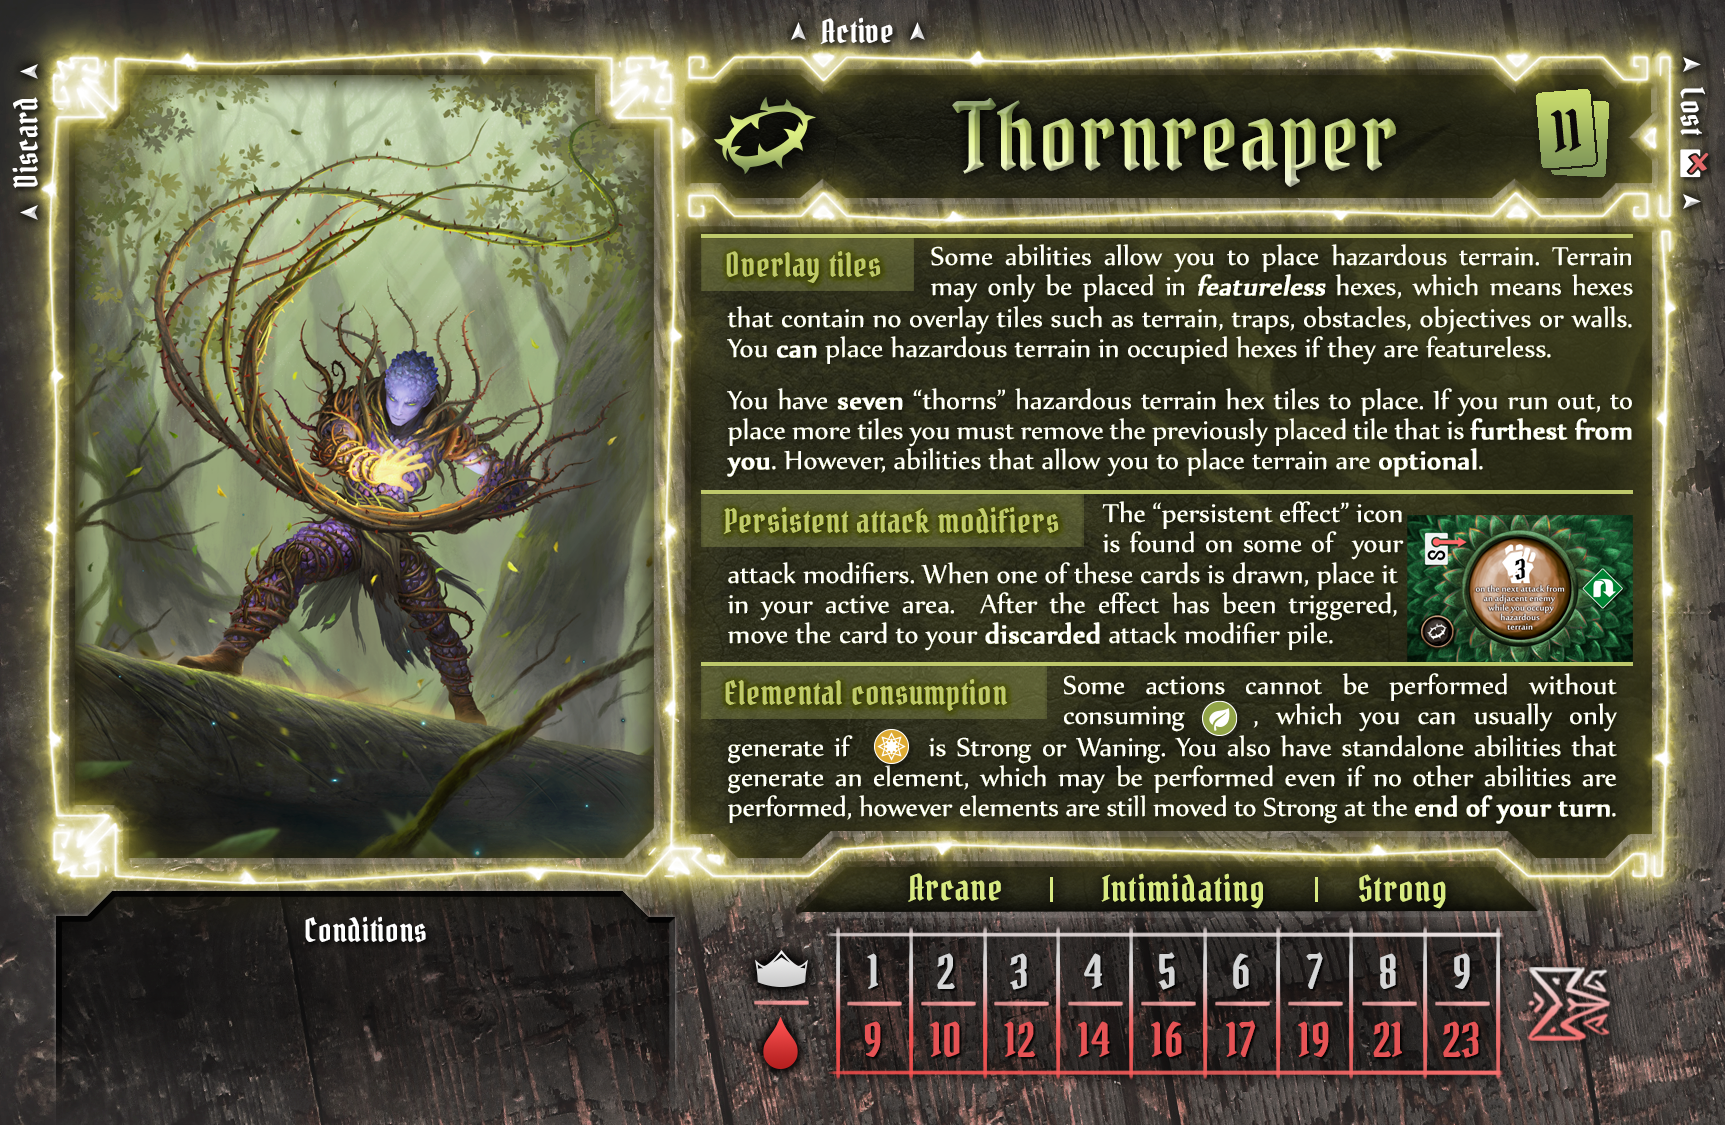
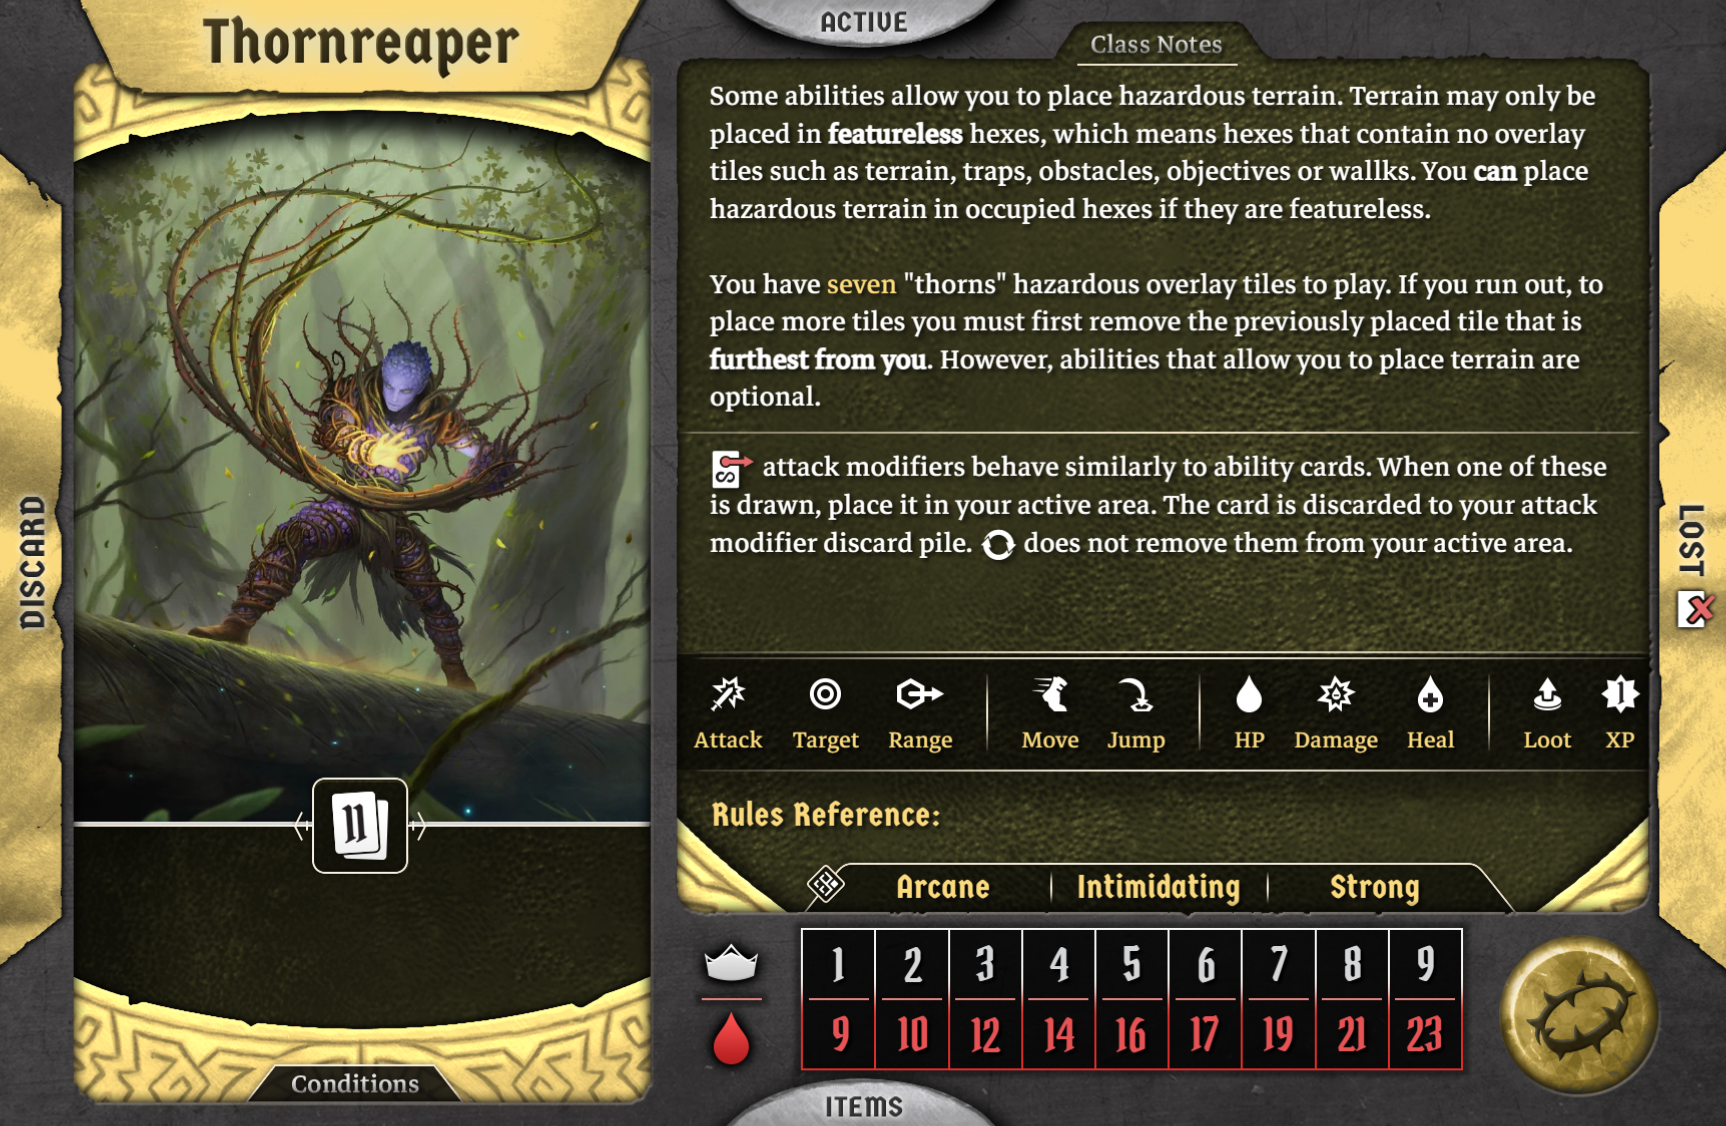
added updated cards and mat. changed atlas indicies accordingly

diff --git a/Game/Content/Classes/Thornreaper/Cards/ThornreaperCardModel.cs b/Game/Content/Classes/Thornreaper/Cards/ThornreaperCardModel.cs
@@ -8,8 +8,8 @@ public abstract class ThornreaperLevelUpCardModel<TTop, TBottom> : AbilityCardMo
 	where TBottom : ThornreaperCardSide
 {
 	protected override string TexturePath => "res://Content/Classes/Thornreaper/Cards.jpg";
-	protected override int ColumnCount => 8;
-	protected override int RowCount => 4;
+	protected override int ColumnCount => 7;
+	protected override int RowCount => 5;
 }
 
 public abstract class ThornreaperCardModel<TTop, TBottom> : AbilityCardModel<TTop, TBottom>
@@ -17,8 +17,8 @@ public abstract class ThornreaperCardModel<TTop, TBottom> : AbilityCardModel<TTo
 	where TBottom : ThornreaperCardSide
 {
 	protected override string TexturePath => "res://Content/Classes/Thornreaper/Cards.jpg";
-	protected override int ColumnCount => 8;
-	protected override int RowCount => 4;
+	protected override int ColumnCount => 7;
+	protected override int RowCount => 5;
 }
 
 public abstract class ThornreaperCardSide : AbilityCardSideModel<Thornreaper>

diff --git a/Game/Content/Classes/Thornreaper/Cards/08_ShrewdOvergrowth.cs b/Game/Content/Classes/Thornreaper/Cards/08_ShrewdOvergrowth.cs
@@ -5,10 +5,10 @@ using Godot;
 
 public class ShrewdOvergrowth : ThornreaperCardModel<ShrewdOvergrowth.CardTop, ShrewdOvergrowth.CardBottom>
 {
-	public override string Name => "Shrewd Overgrowth";
+	public override string Name => "Overgrowth";
 	public override int Level => 1;
 	public override int Initiative => 92;
-	protected override int AtlasIndex => 29 - 8;
+	protected override int AtlasIndex => 10;
 
 	public class CardTop : ThornreaperCardSide
 	{

diff --git a/Game/Content/Classes/Thornreaper/Cards/17_WelcomeToTheJungle.cs b/Game/Content/Classes/Thornreaper/Cards/17_WelcomeToTheJungle.cs
@@ -7,7 +7,7 @@ public class WelcomeToTheJungle : ThornreaperLevelUpCardModel<WelcomeToTheJungle
 	public override string Name => "Welcome to the Jungle";
 	public override int Level => 3;
 	public override int Initiative => 41;
-	protected override int AtlasIndex => 29 - 17;
+	protected override int AtlasIndex => 17;
 
 	public class CardTop : ThornreaperCardSide
 	{

diff --git a/Game/Content/Classes/Thornreaper/Cards/22_DevouredByThorns.cs b/Game/Content/Classes/Thornreaper/Cards/22_DevouredByThorns.cs
@@ -9,7 +9,7 @@ public class DevouredByThorns : ThornreaperLevelUpCardModel<DevouredByThorns.Car
 	public override string Name => "Devoured by Thorns";
 	public override int Level => 6;
 	public override int Initiative => 72;
-	protected override int AtlasIndex => 29 - 22;
+	protected override int AtlasIndex => 23;
 
 	public class CardTop : ThornreaperCardSide
 	{

diff --git a/Game/Content/Classes/Thornreaper/Cards/02_EncasedInThorns.cs b/Game/Content/Classes/Thornreaper/Cards/02_EncasedInThorns.cs
@@ -11,7 +11,7 @@ public class EncasedInThorns : ThornreaperCardModel<EncasedInThorns.CardTop, Enc
 	public override string Name => "Encased in Thorns";
 	public override int Level => 1;
 	public override int Initiative => 22;
-	protected override int AtlasIndex => 29 - 2;
+	protected override int AtlasIndex => 0;
 
 	public class CardTop : ThornreaperCardSide
 	{

diff --git a/Game/Content/Classes/Thornreaper/Cards/18_PricklySituation.cs b/Game/Content/Classes/Thornreaper/Cards/18_PricklySituation.cs
@@ -8,7 +8,7 @@ public class PricklySituation : ThornreaperLevelUpCardModel<PricklySituation.Car
 	public override string Name => "Prickly Situation";
 	public override int Level => 4;
 	public override int Initiative => 20;
-	protected override int AtlasIndex => 29 - 18;
+	protected override int AtlasIndex => 18;
 
 	public class CardTop : ThornreaperCardSide
 	{

diff --git a/Game/Content/Classes/Thornreaper/Cards/25_RabidUndergrowth.cs b/Game/Content/Classes/Thornreaper/Cards/25_RabidUndergrowth.cs
@@ -8,7 +8,7 @@ public class RabidUndergrowth : ThornreaperLevelUpCardModel<RabidUndergrowth.Car
 	public override string Name => "Rabid Undergrowth";
 	public override int Level => 7;
 	public override int Initiative => 27;
-	protected override int AtlasIndex => 29 - 25;
+	protected override int AtlasIndex => 24;
 
 	public class CardTop : ThornreaperCardSide
 	{

diff --git a/Game/Content/Classes/Thornreaper/Cards/20_BarbedOnslaught.cs b/Game/Content/Classes/Thornreaper/Cards/20_BarbedOnslaught.cs
@@ -8,7 +8,7 @@ public class BarbedOnslaught : ThornreaperLevelUpCardModel<BarbedOnslaught.CardT
 	public override string Name => "Barbed Onslaught";
 	public override int Level => 5;
 	public override int Initiative => 58;
-	protected override int AtlasIndex => 29 - 20;
+	protected override int AtlasIndex => 20;
 
 	public class CardTop : ThornreaperCardSide
 	{

diff --git a/Game/Content/Classes/Thornreaper/Cards/26_FissiveEruption.cs b/Game/Content/Classes/Thornreaper/Cards/26_FissiveEruption.cs
@@ -8,7 +8,7 @@ public class FissiveEruption : ThornreaperLevelUpCardModel<FissiveEruption.CardT
 	public override string Name => "Fissive Eruption";
 	public override int Level => 8;
 	public override int Initiative => 40;
-	protected override int AtlasIndex => 29 - 26;
+	protected override int AtlasIndex => 27;
 
 	public class CardTop : ThornreaperCardSide
 	{

diff --git a/Game/Content/Classes/Thornreaper/Cards/27_ImpalingCommand.cs b/Game/Content/Classes/Thornreaper/Cards/27_ImpalingCommand.cs
@@ -8,7 +8,7 @@ public class ImpalingCommand : ThornreaperLevelUpCardModel<ImpalingCommand.CardT
 	public override string Name => "Impaling Command";
 	public override int Level => 8;
 	public override int Initiative => 19;
-	protected override int AtlasIndex => 29 - 27;
+	protected override int AtlasIndex => 26;
 
 	public class CardTop : ThornreaperCardSide
 	{

diff --git a/Game/Content/Classes/Thornreaper/Cards/19_TwistedThistle.cs b/Game/Content/Classes/Thornreaper/Cards/19_TwistedThistle.cs
@@ -8,7 +8,7 @@ public class TwistedThistle : ThornreaperLevelUpCardModel<TwistedThistle.CardTop
 	public override string Name => "Twisted Thistle";
 	public override int Level => 4;
 	public override int Initiative => 26;
-	protected override int AtlasIndex => 29 - 19;
+	protected override int AtlasIndex => 19;
 
 	public class CardTop : ThornreaperCardSide
 	{

diff --git a/Game/Content/Classes/Thornreaper/Cards/12_SpikedEmbrace.cs b/Game/Content/Classes/Thornreaper/Cards/12_SpikedEmbrace.cs
@@ -7,7 +7,7 @@ public class SpikedEmbrace : ThornreaperCardModel<SpikedEmbrace.CardTop, SpikedE
 	public override string Name => "Spiked Embrace";
 	public override int Level => 1;
 	public override int Initiative => 31;
-	protected override int AtlasIndex => 29 - 12;
+	protected override int AtlasIndex => 13;
 
 	public class CardTop : ThornreaperCardSide
 	{
